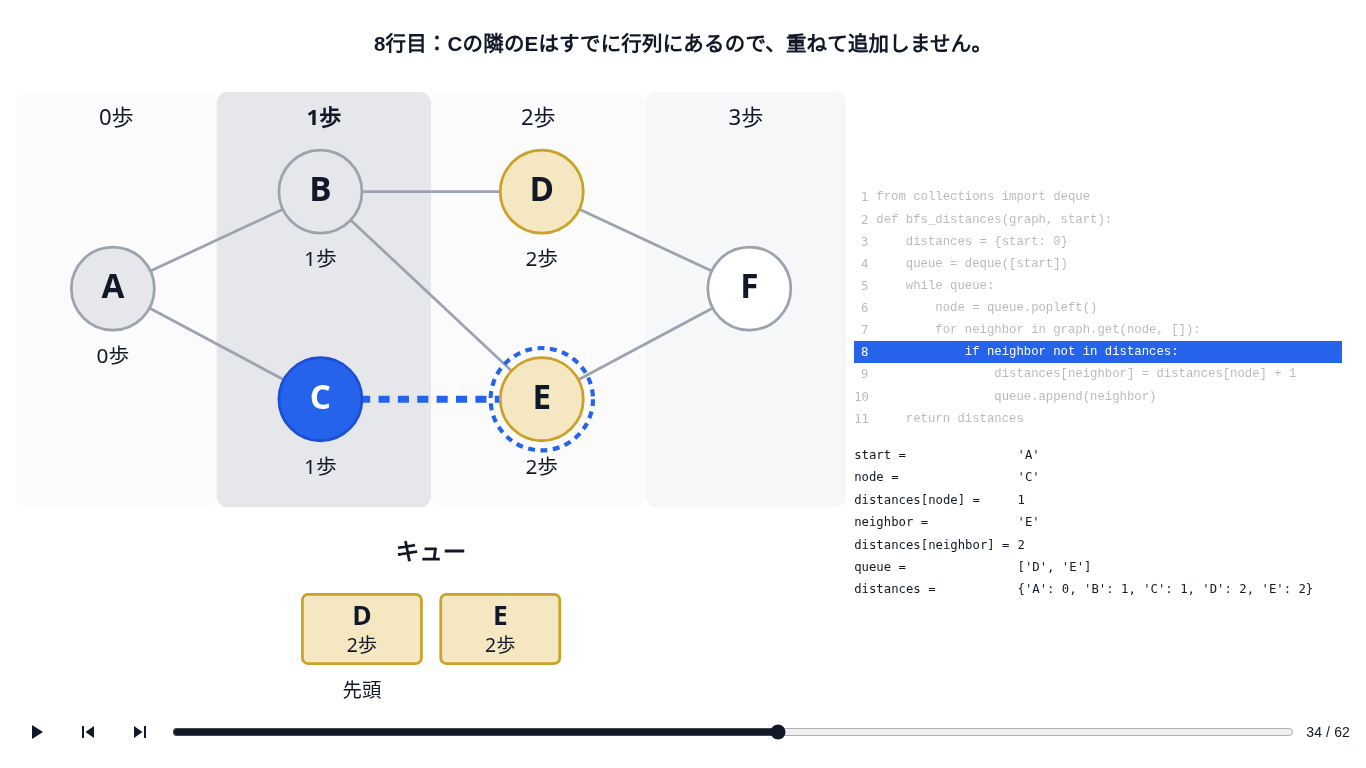
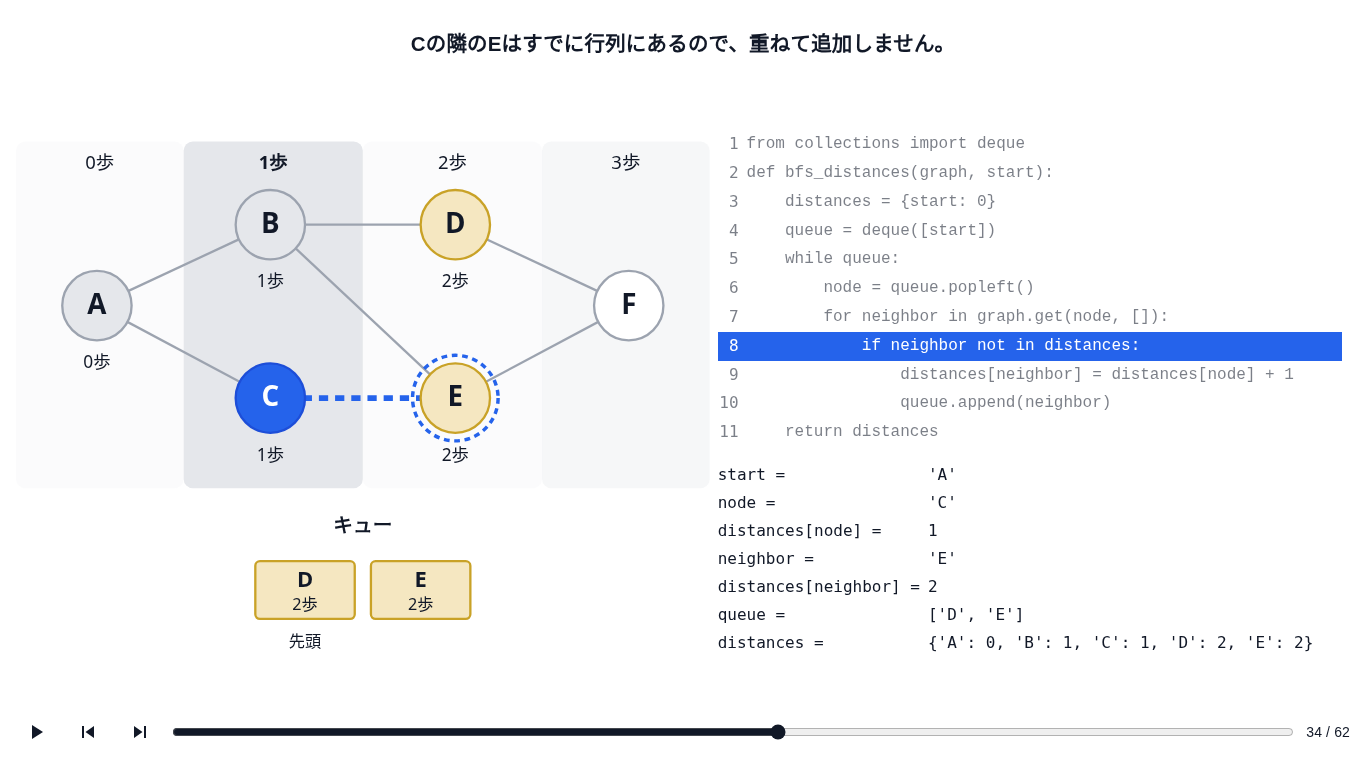
docs: PR93のレビュー修正後の画面と確認方法を更新する

diff --git a/front/src/features/learning/bfs/code-mapping/README.md b/front/src/features/learning/bfs/code-mapping/README.md
@@ -15,9 +15,10 @@ production buildでは `npm run build` 後に `node node_modules/next/dist/bin/n
 自動再生は3500ms間隔。19個の図のチェックポイントに、宣言・while判定・全隣接点のfor/if・距離代入・returnのフレームを加えている。
 末尾はキューが空のwhile判定→距離辞書のreturnで終了する。リザルトや次フェーズへのリンクは付けない。
 
-同じ画面幅・高さで `/learning-preview/bfs-execution` と比較し、左の図のノード直径・間隔・線幅とキューが維持されることを確認する。
-コードを横に追加するため、図の画面内の中心は左へ移るが、図内部の座標と実寸は維持する。
-狭い画面では図を縮小したり上下に積み替えず、図＋コード領域だけを横スクロールする。操作バーは外側に残る。
+1366×768では図＋コードを横スクロールなしに表示する。コードと変数は最小16px（最大18px）、コード行間は1.8、非実行行のopacityは0.55とし、実行行の青背景＋白文字を維持する。
+コード側の幅を優先し、図は #91 の共通SVGを比率どおりに縮小する。フェーズ2との実寸一致は要求しない。
+390px級の狭い画面では、図＋コード領域だけを横スクロールする。操作バーは外側に残る。
+9コマ目では `distances[neighbor]` と `distances` の値だけが青・太字になり、10コマ目では `queue` が強調されることを確認する。
 
 ## コード契約 v1（フェーズ5向け）
 
@@ -40,28 +41,30 @@ production buildでは `npm run build` 後に `node node_modules/next/dist/bin/n
 | `enqueue-neighbor` | 10 | `queue.append(neighbor)` |
 | `return-distances` | 11 | `return distances` |
 
-行番号は `bfsCodeLineNumber` で表示時に導出する。フェーズ5は数値の行番号や画面上のインデックスではなく、コードID・version・意味IDを参照すること。
+行番号はコード欄の補助表示であり、キャプションには付けない。`bfsCodeLineNumber` は検証等で行番号を導出するために維持する。フェーズ5は数値の行番号や画面上のインデックスではなく、コードID・version・意味IDを参照すること。
 このIssueでは穴埋めの候補・設問・正解データは追加していない。
 
 ## 対応データと図の再利用
 
 - `codeMapping.content.ts`: 共通の `LearningContent<CodeMappingCanvasState>` に載せる62フレーム。コンポーネントへコードや場面列を埋め込まない。
 - `state.executionStepId` / `state.execution`: フェーズ2のステップIDと実際のcanvasへの参照。図の状態・強調・グラフ・キューをコピー／再定義せず、`BfsExecutionCanvas` へそのまま渡す。
-- `frameKind=execution`: フェーズ2の19ステップが元の順で1回ずつ現れる。キャプションは行番号の接頭辞を付けて原文を維持する。
+- `frameKind=execution`: フェーズ2の19ステップが元の順で1回ずつ現れる。キャプションはフェーズ2の原文をそのまま維持し、行番号の接頭辞は付けない。
 - `frameKind=code`: 直前の図を保持したコード側のフレーム。フェーズ2で省略されている逆向きの辺・既発見点のifもすべて通る。for終了では対応する完了スナップショットへ進む。
 - `highlights`: 実行中のコード行の意味IDを1つ保持。図は参照スナップショット自身のハイライトを使い、両者とも既存トークンの青で同期する。
 - `captionKind`: データ構造操作 `structure`、比較・評価 `evaluation`、状態更新・代入 `assignment`。ループ文は現在のキュー・node・neighbor・距離を埋め込む。
 - `locals` / `variables`: `node` / `neighbor` の束縛状態、距離代入の一時状態、および参照図から導出したコード下部の値。Pythonで値を代入する前は `—`、初期化済みの空キューは `[]` と区別する。ループ終了後もPythonと同じくnode/neighborの最後の値を保持する。
 
 コードの行移動や逆送りは前フレームを実行する処理ではない。各フレームに対応ID・変数の完全状態を持つので、先頭から順に見なくても図とコード・変数が復元される。
+変数の強調は `codeMapping.presentation.ts` の表示差分で導出する。現在のcanvasを場面列から特定し、その直前フレームの変数と比較するため、任意シーク・逆送り・再描画でも強調対象が変わらない。未代入 `—` から値が入る場合も変化として扱う。
+変わった値だけを既存の `playerTokens.focus` と太字で示し、変わらない値は黒・通常の太さで表示する。コンテンツの変数データは変更しない。
 図・プレイヤー・トークンの実装は変更していない。
 
 ## 判断点・指針との境界
 
 1. フェーズ2は距離の代入とキュー追加を1つの `discover-*` スナップショットにまとめている。一方、元のPythonは別々の2行である。Python本文も図のデータも変えないため、9行目の代入では直前の図を保持し、代入結果をコード下部の `distances[neighbor]` と `distances` に表示する。10行目のappendで対応するdiscoverスナップショットへ進む。代入値は参照図の `distances[node] + 1` から導出する。図がコードより1行分粗いチェックポイントであることをPRにも明記する。
 2. フェーズ2には初期化前の空の図がない。冒頭のimport・def・distances宣言では、対応する最初の `enqueue-start` の図を先に示す。コード側のqueue/distancesは実行行に従って `—` から初期化する。初期化前の図を新設しない。
-3. 左右配置と「フェーズ2と同じ大きさ」を両立するため、図がフェーズ2で占める実寸を保ってコードを右に追加した。狭い幅では局所的な横スクロールで対応する。既存フェーズ2と同じプレビュー外枠・プレイヤーを使うため、UI定義の70〜85%占有率・操作バー等と既存土台の差分（#83）はそのまま残る。
-4. UI定義の「本文は黒」とフェーズ4の「非実行コードはDim」は、コードの非実行行のみopacityを下げることで役割を分ける。変数・キャプションは黒、青の実行行上だけ白とする。
+3. PR #93 のレビュー指示に従い、図との実寸一致よりコード・変数の読みやすさを優先する配分に変更した。1366×768では横スクロールなし、390px級では局所的な横スクロールで対応する。既存フェーズ2と同じプレビュー外枠・プレイヤーを使うため、UI定義の70〜85%占有率・操作バー等と既存土台の差分（#83）はそのまま残る。
+4. UI定義の「本文は黒」とフェーズ4の「非実行コードはDim」は、コードの非実行行のみopacityを下げることで役割を分ける。キャプションと変化していない変数は黒、変化した変数値は既存の青と太字、青の実行行上は白とする。
 5. 指針全文はフェーズ4末尾のリザルト、要約は4→5のシームレス接続を示しており、遷移の記述が一致していない。現在のユーザー指示ではリザルト・接続は #77 の対象外なので、今回はreturnで停止する。元文書の遷移定義は変更しない。
 
 ## 検証
@@ -81,6 +84,14 @@ npm run verify:bfs-code-mapping
 
 新verifyは、62フレームの図の参照同一性・19チェックポイントの順序・全11行の通過・本文と意味IDの契約を確認する。
 さらに元のPythonを実行して全行をトレースし、ifのfalse、forの各反復・終了、whileの終了を含む全行と、node/neighbor・距離辞書・キューの値を各フレームと照合する。
-誤った変数値、図のコピー、未知の行ID、誤った距離代入、19チェックポイントの欠落も拒否する。
+誤った変数値、図のコピー、未知の行ID、誤った距離代入、19チェックポイントの欠落も拒否する。PR #93 の修正では行番号プレフィックスがないこと、実行フレームが原文と一致すること、全フレームの変数の変化判定がPythonの変数差分と一致することも検証する。
 
 DB適用なし。依存関係・ロックファイル・既存の図や19ステップは変更なし。
+
+## PR #93 レビュー修正の確認
+
+[検証記録と更新済みの1366×768の画像](../../../../../../docs/bfs-code-mapping-72.md#pr-93-レビュー修正)を参照。
+1. 9/62へシークし、コード・変数が16px以上で読め、図＋コード領域に横スクロールがないことを確認する。
+2. 距離代入で変わった `distances[neighbor]` と `distances` の値だけが青・太字であることを確認する。
+3. 10/62で `queue` だけが変化表示になり、距離表示は通常色へ戻ることを確認する。
+4. 9/62へ逆送り・直接シークし、同じ強調が復元されることを確認する。

diff --git a/docs/bfs-code-mapping-72.md b/docs/bfs-code-mapping-72.md
@@ -14,7 +14,7 @@
 フェーズ2の19ステップを直接参照するチェックポイントに、宣言、while、forの全反復・終了、ifのtrue/false、距離代入、returnを加え、全62フレームを共通LearningPlayerへ渡す。
 元のPythonを実行した順と一致するため、フェーズ2では独立表示しない逆向きの辺や既発見点のifも通過する。
 `BfsExecutionCanvas` をそのまま使い、図・プレイヤー・トークンは変更しない。
-実行中の行だけ既存トークンの青と白文字、非実行コードはDim、変数はコードの下部に黒文字で表示する。
+実行中の行だけ既存トークンの青と白文字、非実行コードはopacity 0.55でDim表示する。コード下部の変数は、直前フレームから変わった値だけ青・太字、その他は黒・通常の太さで表示する。
 
 ## 確認手順
 
@@ -54,15 +54,15 @@ npm run verify:bfs-code-mapping
 ブラウザでの確認:
 
 - 1366×768では62フレームすべてのキャプション・実行行・変数表示・図のノード状態を照合。1920×1080・390×844では初期化・代入・追加・既発見・終了の代表7フレームを照合。
-- 各画面サイズでフェーズ2とノード直径を比較し、図が縮小されていないこと、SVGの縦横倍率が等しいことを確認。
+- PR #93 の修正後は文字の可読性を優先して図を均等に縮小し、SVGの縦横倍率が等しいことを確認。1366×768・1920×1080では図＋コードが局所スクロールなしで収まる。
 - 戻る・進む・Home/End・末尾再生・一時停止を操作し、通常の3500msタイマーで次のフレームへ進むことを確認。
 - 別途、3500msの再生タイマーだけをテスト用に60msへ短縮し、62フレームを自動再生して末尾で停止することを確認。製品コード・実際の設定値は変更していない。
 - ページ例外なし、ページ全体の横スクロールなし。390pxでは意図した図＋コード領域内の横スクロールあり。
 
 | 画面サイズ | フェーズ2のノード直径 | フェーズ4のノード直径 |
 | --- | --- | --- |
-| 1366×768 | 83.02px | 83.02px |
-| 1920×1080 | 121.52px | 121.52px |
+| 1366×768 | 83.02px | 69.37px |
+| 1920×1080 | 121.52px | 98.18px |
 | 390×844 | 37.40px | 37.40px |
 
 既存のworkspace root・ESLint module type警告は残るが、コマンドは成功。バックエンド・DB・外部認証・LLMは検証範囲外。
@@ -79,11 +79,39 @@ npm run verify:bfs-code-mapping
 | 狭い画面・左の図（390×844） | ![狭い画面の図](figures/bfs-code-mapping-72/390-graph.png) |
 | 狭い画面・横スクロールしたコード側（390×844） | ![狭い画面のコード](figures/bfs-code-mapping-72/390-execution-discover-b.png) |
 
+## PR #93 レビュー修正
+
+- コードと変数は `clamp(16px, 1vw, 18px)`、コード行間は1.8。非実行行のopacityは0.55、実行行は青背景＋白文字。
+- コード側に幅を確保し、図は共通描画の比率を維持して縮小する。1366×768では横スクロールなし、コードの行切れもなし。
+- 変数表示はコンテンツの直前フレームとの差分を表示側で計算する。未代入→値も含め、変わった値だけ `playerTokens.focus` と太字で強調する。その他の変数は黒・通常の太さ・opacity 1を維持。
+- キャプションの行番号接頭辞を除去した。19個の実行フレームはフェーズ2の原文そのまま。コード本文・意味ID・version・62フレームの状態・参照・実行行は変更なし。
+
+修正後も上記8コマンドはすべて成功。変更前後の全62フレームを比較し、キャプションの接頭辞以外のデータに差がないことを確認した。
+変数の強調判定は、実際のPythonの直前の変数との差分とも全フレームで照合した。
+
+production buildのブラウザで1366×768の全62フレーム、1920×1080・390×844の代表7フレームを確認した。
+コード・変数が16px以上、非実行行0.55、変化値が青＋太字、未変化値が黒＋通常の太さ＋opacity 1であることを確認。
+任意シーク、逆送り・順送り、サイズ変更後も、9/62の強調対象が `distances[neighbor]` と `distances` に保たれる。
+
+| 画面 | コードの文字／行間 | 図＋コード領域の横スクロール | コードの行切れ |
+| --- | --- | --- | --- |
+| 1366×768 | 16px／28.8px | なし | なし |
+| 1920×1080 | 18px／32.4px | なし | なし |
+| 390×844 | 16px／28.8px | 局所スクロールあり | コード領域内での行切れなし |
+
+### レビューで確認するフレーム
+
+上の更新済み1366×768の画像、または単品プレビューで確認する。
+
+1. **9/62（距離代入）**: 横スクロールなしで図とコードが収まり、非実行コードも読める濃さ・大きさになっている。`distances[neighbor] = 1` と距離辞書だけが青・太字で、node・queue等は通常色。
+2. **10/62（キュー追加）**: `queue = ['B']` が青・太字へ変わり、距離辞書・距離値は通常色へ戻る。
+3. **9/62へ戻る**: シーク・逆送りでも同じ変数の変化表示を復元する。キャプションに「9行目：」等を付けない。
+
 ## 判断点と対象外
 
 - フェーズ2は距離代入とappendを1つの図の更新にまとめている。9行目は直前の図を保持し、コード下部の距離辞書だけ実行直後の値を示し、10行目で対応する既存図へ進む。
 - 初期化前の図がないため、冒頭の非描画フレームは対応する最初の図を先に示す。コード側の未代入変数は `—` とする。
-- 図の実寸を維持してコードを右へ追加するため、狭い画面では局所的な横スクロールを使う。プレイヤー外枠・操作系の既存差分は #83 の範囲で維持する。
+- PR #93 のレビュー指示に従い、コードの可読性を優先して図を均等に縮小する。1366×768では図＋コードを横スクロールなしで表示し、390px級では局所的な横スクロールを使う。プレイヤー外枠・操作系の既存差分は #83 の範囲で維持する。
 - 指針全文のフェーズ4末尾リザルトと要約の4→5シームレス接続は一致していない。今回の明示指示に従い、どちらも #77 の対象外としてreturnで停止する。
 - フェーズ5の穴埋め・フェーズ接続・リザルト・アプリ組み込み・保存は実装していない。
 

diff --git a/docs/README.md b/docs/README.md
@@ -35,7 +35,7 @@
 
 | 文書 | 状態 | 用途 |
 | --- | --- | --- |
-| [bfs-code-mapping-72.md](bfs-code-mapping-72.md) | 記録 | Issue #72 のコード契約・62フレーム、Pythonトレース検証と単品プレビューの画像・確認手順 |
+| [bfs-code-mapping-72.md](bfs-code-mapping-72.md) | 記録 | Issue #72 のコード契約・62フレーム、Pythonトレース検証、PR #93 の可読性・変数差分表示と確認画像 |
 | [graph-unify-91.md](graph-unify-91.md) | 記録 | Issue #91 の共通描画・迷路配置、検証結果と同じ画面幅でのフェーズ1・2・3比較 |
 | [feedback-v1-implementation.md](feedback-v1-implementation.md) | 記録（現行実装の説明を含む） | フィードバック v1 の基準コミット、参照正本、生成・検証・表示の実装内容。仕様の正本は Google Drive のフィードバック要件 v1 |
 
